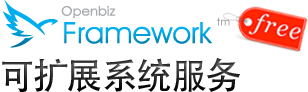
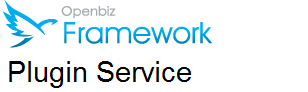
git-svn-id: http://openbiz-cubi.googlecode.com/svn/trunk@4362 104121f4-e14d-89f9-dcf5-eda1cd0138dc

Changed region(s): [[0.0, 0.6304, 0.789, 1.0], [0.7013, 0.0652, 1.0, 0.5652]]

diff --git a/docs/openbiz.en/developer/framework/plugin-service.php b/docs/openbiz.en/developer/framework/plugin-service.php
@@ -3,7 +3,7 @@
 <html xmlns="http://www.w3.org/1999/xhtml">
 <head>
 <meta http-equiv="Content-Type" content="text/html; charset=UTF-8" />
-<title>可扩展系统服务 － Openbiz Framework － <?php echo SITE_NAME;?></title>
+<title>Plugin Service - Openbiz Framework - <?php echo SITE_NAME;?></title>
 <link rel="icon" href="favicon.ico" type="image/x-icon" />
 <link rel="shortcut icon" href="favicon.ico" type="image/x-icon" /> 
 <link href="../../general/style/general.css" rel="stylesheet" type="text/css" />
@@ -34,13 +34,13 @@
 			<div id="framework-banner" class="banner" >
 				<div class="desc">
 					<h1 style="height:auto; padding-top:45px;"><a href="../framework.php"><img src="image/pluginservice/banner-title.png" title="Openbiz Framework"/></a></h1>
-					<h2>确保无限的可扩展性</h2>
+					<h2>Ensure full extendability</h2>
 					<p style="padding-bottom:12px;padding-top:4px;">
-						丰富的可扩展服务<br/>
-						帮您快速解决更多应用问题
+						Rich extendable services<br/>
+						help your implement complicated logic
 					</p>									
 						<p style="width:100px;padding-top:15px;">
-							<a class="blue-button-go" href="#" >免费获取</a>
+							<a class="blue-button-go" href="#" >Download</a>
 						</p>
 				</div>
 			</div>
@@ -49,55 +49,23 @@
 	
 	<div class="content">
 		<div class="page-splitter"></div>	
-		<h2>Openbiz系统可扩展服务</h2>
-		<p>Openbiz 允许开发人员通过实现插入式服务的方式编写自己的特殊逻辑。Openbiz服务对象同样是基于元数据驱动的对象。</p>
-		<table class="present-features" cellspacing="0">
-		<tr>
-			<td>				
-				<img src="image/pluginservice/icon-key.png" />
-			</td>
-			<td class="desc">
-				<h4>访问控制服务</h4>
-				<p>该服务可以帮助您实现基于固定角色的简单的用户访问权限控制。适合于简单应用。</p>
-			</td>
-			<td>
-				<img src="image/pluginservice/icon-lock.png" />
-			</td>
-			<td class="desc">
-				<h4>数据权限服务</h4>
-				<p>该服务可以为数据可视性分离以及高级数据共享服务生成底层附加SQL查询规则。</p>
-			</td>
-		</tr>			
-		<tr>
-			<td>
-				<img src="image/pluginservice/icon-tool.png" />
-			</td>
-			<td class="desc">
-				<h4>系统工具服务</h4>
-				<p>该服务帮您完成一些周边逻辑的常用函数。例如，字节显示转换、获取当前应用短URL等杂项工具</p>
-			</td>
-			<td>
-				<img src="image/pluginservice/icon-cash.png" />
-			</td>
-			<td class="desc">
-				<h4>货币服务</h4>
-				<p>通常用于订单结算系统等应用。该服务提供底层货币汇率转换 和 本地化的显示逻辑。</p>
-			</td>
-		</tr>		
+		<h2>Openbiz Pluign Service</h2>
+		<p>Openbiz allows developers to write plugin services to implementate their own logic. Similar with other Openbiz objects, a plugin service is also defined by XML metadata. Some services are listed below.</p>
+		<table class="present-features" cellspacing="0">	
 		<tr>
 			<td>
 				<img src="image/pluginservice/icon-firewall.png" />
 			</td>
 			<td class="desc">
-				<h4>安全过滤服务</h4>
-				<p>该服务可以根据其配置文件来实现网络数据包过滤。可以依赖该服务对敏感和危险信息进行屏蔽。</p>
+				<h4>Security service</h4>
+				<p>This service can filter out unsecured requests. It is like a soft firewall for your application</p>
 			</td>
 			<td>
 				<img src="image/pluginservice/icon-cache.png" />
 			</td>
 			<td class="desc">
-				<h4>系统缓存服务</h4>
-				<p>该服务主要用于缓存系统级对象和数据为整体性能优化而设计。开发人员也可以通过调用其API实现应用层数据缓存</p>
+				<h4>Cache Service</h4>
+				<p>This service provides API for developers to implement data cache. It also supports different cache storage options.</p>
 			</td>
 		</tr>
 		<tr>
@@ -105,15 +73,15 @@
 				<img src="image/pluginservice/icon-archive.png" />
 			</td>
 			<td class="desc">
-				<h4>用户档案服务</h4>
-				<p>该服务可以通过统一的方式快速创建和访问用户的详细资料。便于用户信息管理</p>
+				<h4>User Profile service</h4>
+				<p>This service is to pull current logged-in user's profile that is a key data used by many other components. </p>
 			</td>
 			<td>
 				<img src="image/pluginservice/icon-id.png" />
 			</td>
 			<td class="desc">
-				<h4>身份审核服务</h4>
-				<p>该服务是用户身份审核的抽象层，用于身份的审核验证环节，负责与用户数据库连接，类似于Unix的PAM将底层验证逻辑与上层应用分离。</p>
+				<h4>User Authentication service</h4>
+				<p>This service usually is used to authenticate user to enter an application. Developers can extend it to link database or LDAP server.</p>
 			</td>
 		</tr>
 		<tr>
@@ -121,15 +89,15 @@
 				<img src="image/pluginservice/icon-system.png" />
 			</td>
 			<td class="desc">
-				<h4>系统首选项服务</h4>
-				<p>该服务可以允许您和用户设置或快速访问自定义的系统级或用户级配置参数。</p>
+				<h4>System Preference service</h4>
+				<p>This service allows administrator to set system preferences</p>
 			</td>
 			<td>
 				<img src="image/pluginservice/icon-mail.png" />
 			</td>
 			<td class="desc">
-				<h4>电子邮件服务</h4>
-				<p>该服务封装了与SMTP服务器通讯的底层协议，提供简单友好调用接口给开发人员用户创建集成电子邮件通知特性的应用。</p>
+				<h4>Email service</h4>
+				<p>This service can be configured to use SMTP or sendmail protocol. </p>
 			</td>
 		</tr>
 		<tr>
@@ -137,32 +105,45 @@
 				<img src="image/pluginservice/icon-favour.png" />
 			</td>
 			<td class="desc">
-				<h4>系统日志服务</h4>
-				<p>通过该服务的API借口可以方便的记录触发系统日志，并对日志信息的显示做了有好的多语言化处理</p>
+				<h4>Event Log service</h4>
+				<p>This service provide API to log user activities. It also can be linked to a Form element event handler. </p>
 			</td>
 			<td>
 				<img src="image/pluginservice/icon-list.png" />
 			</td>
 			<td class="desc">
-				<h4>数值列表服务</h4>
-				<p>该服务用于以本地化的方式数组将程序内预定义的数据字典元数据转换为便于程序调用的数组。</p>
+				<h4>List of Value service</h4>
+				<p>This service provides program readable array from data list defined in XML elements</p>
 			</td>
-		</tr>				
+		</tr>
+		<tr>
+			<td>				
+				<img src="image/pluginservice/icon-key.png" />
+			</td>
+			<td class="desc">
+				<h4>Access Service</h4>
+				<p>Access service provides a simple way to set access permission to views based on user roles. It works well for small application.</p>
+			</td>
+			<td>
+				<img src="image/pluginservice/icon-lock.png" />
+			</td>
+			<td class="desc">
+				<h4>Data Visibility service</h4>
+				<p>This service is used to generate data query rules based on the user group</p>
+			</td>
+		</tr>			
 		</table>
 		<div class="page-splitter"></div>			
-		<h2>创建你自己的扩展服务</h2>
+		<h2>Create your own service</h2>
 		<p>
-			服务代码存放在 bin/service 目录下，其元数据描述文件存放在 /metadata/service 目录下。
-			服务元数据可以指定服务名称，实现的类名如同其它对象的元数据配置一样。服务对象元数据没有一个固定的格式，
-			因此不同的系统服务可以有各自不同的元数据配置格式。
-			Openbiz服务通常是有两部分组成：
+			Creating a plugin service is same as creating an Openbiz object. You can just create it in a sub directory under "modules" directory. Unlike other Metadata based objects, a plugin service does not have fixed metadata schema. Openbiz service is usually defined by 2 files.
 		</p>
 		<ul class="three-se">
-			<li>服务的元数据</li>
-  			<li>服务的实现类</li>
+			<li>Service Metadata file</li>
+  			<li>Service implementation class file</li>
 		</ul>
 		<p>
-			您可以简单的通过复制一个现有服务的元数据文件service_name.xml 和程序文件 service_name.php。再此之上编写您自己的Openbiz服务。
+			Developers can copy an existing service metadata file service_name.xml and class file service_name.php. Then start editing the metadata as well as the class code.
 		</p>
 		
 		<!-- 页面底部的购买区域 开始 -->
@@ -170,11 +151,10 @@
 		<div class="bottom-info-block">
 			<table>
 				<tr>
-					<td><a class="blue-button-go" href="#" >免费获取</a></td>
+					<td><a class="blue-button-go" href="#" >Download</a></td>
 					<td>
 						<p>
-							Openbiz Framework丰富的可扩展服务，帮您快速解决更多应用问题<br/>
-							赶快下载Openbiz Framework感受企业应用系统的动力之源。
+							Download Openbiz framework today to build your own services.
 						</p>
 					</td>
 				</tr>

diff --git a/docs/openbiz.en/developer/framework/_include/_framework-navigation.php b/docs/openbiz.en/developer/framework/_include/_framework-navigation.php
@@ -9,9 +9,9 @@
 			<li><a class="metadata-oriented"	href="metadata-oriented.php">Metadata</a></li>			
 			<li><a class="simple-expression" 	href="simple-expression.php">Expression</a></li>
 			<li><a class="data-abstract-layer" 	href="data-abstract-layer.php">Data Object</a></li>
-			<li><a class="presentation-layer" 	href="presentation-layer.php">Presentation</a></li>
-			<li><a class="plugin-service"		href="plugin-service.php">Service</a></li>
-			<li><a class="quick-start" 			href="quick-start.php">Quick Start</a></li>			
+			<li><a class="presentation-layer" 	href="presentation-layer.php">View &amp; Form</a></li>
+			<li><a class="plugin-service"		href="plugin-service.php">Plugin Service</a></li>
+			<!--<li><a class="quick-start" 			href="quick-start.php">Quick Start</a></li>	-->
 		</ul>
 	</div>
 </div>

diff --git a/docs/openbiz.en/general/_include/_site-header.php b/docs/openbiz.en/general/_include/_site-header.php
@@ -14,9 +14,9 @@
 					<li><a class="certification"	href="/certification">认证培训</a></li>	-->
 					<li><a class="cubi"		href="/cubi">Openbiz Cubi</a></li>	
 					<li><a class="framework"		href="/framework.php">The Framework</a></li>
-					<li><a class="document"			href="/document">Document</a></li>
 					<li><a class="extension"		href="/extension">Extensions</a></li>
-					<li><a class="about"			href="/about">About us</a></li>
+					<li><a class="document"			href="http://code.google.com/p/openbiz-cubi/">Document</a></li>
+					<li><a class="demo"			href="">Demo</a></li>
 				</ul>
 			</div>
 		</div>
